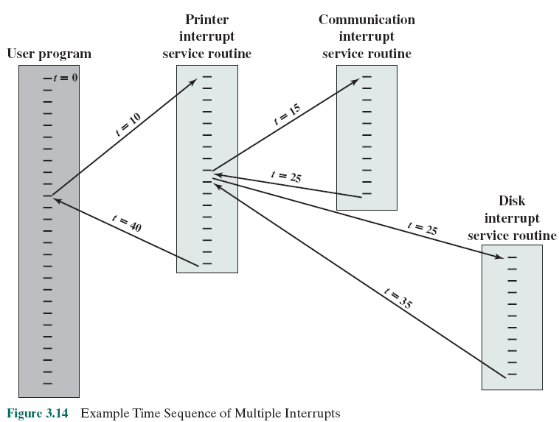
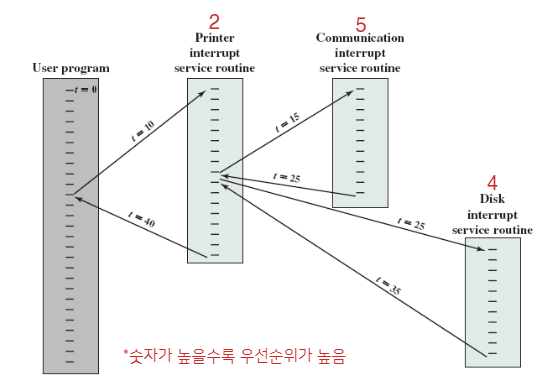
'인터럽트란?' 포스트 개정

Changed region(s): [[0.0, 0.031, 0.9945, 1.0], [0.2176, 0.3721, 0.2486, 0.4031]]

diff --git a/content/blog/os/what-is-interrupt.md b/content/blog/os/what-is-interrupt.md
@@ -52,11 +52,11 @@ draft: false
 
 ## 구현
 
-기본적인 인터럽트 메커니즘은 다음과 같습니다. 우선, CPU에는 매번 명령을 실행하고 난 후 인터럽트를 감지하는 **인터럽트 요청 라인(interrupt-request line)**이라는 전선(wire)이 존재합니다. 만약 인터럽트 요청 라인 통해 장치 컨트롤러가 발생시킨 신호를 감지하게 되면 해당 인터럽트의 **인터럽트 번호(interrupt number)**를 읽은 뒤, 인터럽트 벡터에서 해당 명령에 대응되는 ISR로 이동한 후 ISR을 실행합니다.
+기본적인 인터럽트 메커니즘은 다음과 같습니다. 우선 CPU에는 **인터럽트 요청 라인(interrupt-request line)**이라는 전선(wire)이 존재하는데, CPU는 매번 하나의 명령을 실행한 후 인터럽트 요청 라인을 확인하여 인터럽트가 들어왔는지를 확인합니다. 만약 인터럽트 요청 라인에 인터럽트 신호가 들어온 것을 확인하면 해당 인터럽트의 **인터럽트 번호(interrupt number)**를 읽은 뒤, 인터럽트 벡터에서 해당 명령에 대응되는 ISR로 이동한 후 ISR을 실행합니다.
 
 이때 인터럽트 핸들러(즉, ISR)는 인터럽트 처리 도중 변경될 수 있는 모든 상태를 저장한 뒤 인터럽트 발생 원인을 살펴본 후 그에 맞는 적절한 동작을 수행하고 `return_from_interrupt`와 같은 명령을 실행시켜 인터럽트가 발생하기 전의 원래 상태로 되돌아갑니다.
 
-즉, 장치 컨트롤러가 인터럽트를 발생(raise) 시키고, CPU가 감지(catch)해서 인터럽트를 적절한 인터럽트 핸들러에게 할당(dispatch)하면 해당 핸들러가 인터럽트를 처리합니다. 아래 그림에 인터럽트 기반 I/O 사이클에 관한 내용이 묘사되어 있습니다:
+즉, 장치 컨트롤러(혹은 프로세스)가 인터럽트를 발생(raise) 시키고, CPU가 감지(catch)해서 인터럽트를 적절한 인터럽트 핸들러에게 할당(dispatch)하면 해당 핸들러가 인터럽트를 처리합니다. 아래 그림에 인터럽트 기반 I/O 사이클에 관한 내용이 묘사되어 있습니다:
 
 <figure>
   <img src="https://cdn.jsdelivr.net/gh/jaehyeon48/jaehyeon48.github.io@master/assets/images/os/what-is-interrupt/fig6.png" alt="인터럽트-driven I/O 사이클" />
@@ -69,13 +69,16 @@ draft: false
 2. 장치에 관한 적절한 인터럽트 핸들러를 할당 하는데 효율적인 방법이 필요합니다.
 3. 운영 체제가 우선순위를 고려하여 인터럽트를 처리할 수 있게끔 다중 레벨 인터럽트가 필요합니다.
 
-현대 컴퓨터 하드웨어에서, 이러한 세 가지 특성들은 CPU와 **인터럽트 제어 하드웨어(interrupt-controller hardware)**를 통해 처리할 수 있습니다. 대부분의 CPU는 두 개의 인터럽트 요청 라인을 가지고 있는데, 하나는 회복할 수 없는(unrecoverable) 메모리 에러와 같은 이벤트를 처리하는 **non-maskable 인터럽트**를 위한 것이고, 다른 하나는 도중에 인터럽트 되어서는 안 되는 중요한 명령 처리를 위해 인터럽트 처리를 잠시 중단할 수 있는 **maskable 인터럽트**를 위한 것입니다. maskable 인터럽트는 장치 컨트롤러가 서비스를 요청할 때 사용됩니다.
+현대 컴퓨터 하드웨어에서, 이러한 세 가지 특성들은 CPU와 **인터럽트 제어 하드웨어(interrupt-controller hardware)**를 통해 처리할 수 있습니다. 대부분의 CPU는 두 개의 인터럽트 요청 라인을 가지고 있는데, 각각 다음과 같은 인터럽트를 위한 라인입니다:
+
+- **Non-Maskable Interrupt**: 반드시 지금 처리해야하는 (무시할 수 없는) 인터럽트로, 회복할 수 없는(unrecoverable) 메모리 에러와 같은 이벤트를 처리할 때 사용됩니다.
+- **Maskable Interrupt**: 도중에 인터럽트 되어서는 안 되는 중요한 명령 처리를 위해 인터럽트 처리를 잠시 중단하거나 무시할 수 있는 인터럽트로, 주로 장치 컨트롤러가 서비스를 요청할 때 사용됩니다.
 
 앞서 살펴본 인터럽트 벡터의 존재 이유를 복기해봅시다. 하나의 일반적인 인터럽트 핸들러(generic handler)를 통해 처리한다면 인터럽트가 발생했을 때 어떤 인터럽트 처리가 필요한지 판단하기 위해 가능한 모든 인터럽트 소스를 찾아야 할 것입니다. 이는 비효율적이므로, 인터럽트 벡터와 같이 ISR들의 주소를 저장하는 테이블을 통해 인터럽트를 처리합니다.
 
 하지만 실제로 컴퓨터들은 인터럽트 벡터가 보유한 주소보다 더 많은 장치를(즉, 인터럽트 핸들러를) 가지고 있습니다. 즉, 인터럽트 벡터에 모든 장치들의 ISR 주소를 저장할 수 없다는 뜻입니다. 이 문제를 해결할 수 있는 일반적인 방법은 각 인터럽트 벡터의 요소가 인터럽트 핸들러들이 저장된 리스트의 헤드를 가리키는 **인터럽트 체이닝(interrupt chaining)** 방식을 사용하는 것입니다. (즉, 해시 테이블 [separate chaining](https://www.geeksforgeeks.org/hashing-set-2-separate-chaining/)의 방법과 유사하다고 볼 수 있습니다).
 
-아래 그림은 인텔 프로세서에 대한 인터럽트 벡터를 나타낸 것이다. 벡터 번호 0부터 31까지는 non-maskable 인터럽트, 32 부터 255까지는 maskable 인터럽트 입니다:
+아래 그림은 인텔 프로세서에 대한 인터럽트 벡터를 나타낸 것입니다. 벡터 번호 0부터 31까지는 non-maskable 인터럽트, 32 부터 255까지는 maskable 인터럽트 입니다:
 
 <figure>
   <img src="https://cdn.jsdelivr.net/gh/jaehyeon48/jaehyeon48.github.io@master/assets/images/os/what-is-interrupt/fig7.png" alt="인텔 CPU 인터럽트 벡터" />
@@ -118,13 +121,13 @@ draft: false
 
 ## 여러개의 인터럽트
 
-여태껏 하나의 인터럽트만 발생하는 경우를 살펴보았는데, 만약 여러 개의 인터럽트가 발생하면 어떻게 될까요? 예를 들어, 네트워크를 통해 데이터를 받아서 결과를 출력하는 프로그램이 있다고 해봅시다. 프린터는 결과를 출력할 때마다 인터럽트를 발생시킬 것입니다. 또한, 네트워크 컨트롤러는 데이터가 도착할 때마다 인터럽트를 발생시킬 것인데, 이때 데이터는 하나의 문자일 수도 있고, 블록 단위일 수도 있을 테지요.
+여태껏 하나의 인터럽트만 발생하는 경우를 살펴보았는데, 만약 여러 개의 인터럽트가 발생하면 어떻게 될까요? 예를 들어, 네트워크를 통해 데이터를 받아서 결과를 프린터에 출력하는 프로그램이 있다고 해봅시다. 프린터는 결과를 출력할 때마다 인터럽트를 발생시킬 것입니다. 또한, 네트워크 컨트롤러는 데이터가 도착할 때마다 인터럽트를 발생시킬 것인데, 이때 데이터는 하나의 문자일 수도 있고, 블록 단위일 수도 있을 테지요.
 
 이 상황에서, 프린터 인터럽트가 처리되는 도중에 네트워크 인터럽트가 발생한다면 어떻게 될까요? 이 경우 여러 개의 인터럽트를 처리하기 위해 두 가지 방법이 사용될 수 있는데, 우선 첫 번째는 어떤 *한 인터럽트가 처리되는 동안은 다른 인터럽트의 발생을 중지*시키는 것입니다. 즉, 프로세서가 인터럽트 신호를 (일단) 무시한다는 뜻입니다. 어떤 한 인터럽트가 처리되는 동안 발생한 다른 인터럽트는 일반적으로 대기(pending) 상태가 되어 이후에 프로세서가 인터럽트 발생을 다시 허용했을 때 처리됩니다.
 
-이 방법은 인터럽트가 발생한 순서대로 처리된다는 점에선 좋은 방법이지만, 상대적 우선순위 혹은 빨리 처리되어야 하는 시급한 요구를 고려하지 못한다는 단점이 있습니다. 예를 들어, 네트워크로부터 어떤 데이터가 도착했을 때 발생한 인터럽트는 (앞으로 도착할) 또 다른 데이터들을 위해 즉시 처리되어야 할 필요가 있습니다. 만약 두 번째 데이터가 도착하기 전에 첫 번째 데이터가 처리되지 못한다면, 데이터가 소실될 가능성이 있지요.
+이 방법은 인터럽트가 발생한 순서대로 처리된다는 점에선 좋은 방법이지만, (우선순위가 높은) 빨리 처리되어야 하는 요구를 고려하지 못한다는 단점이 있습니다. 예를 들어, 네트워크로부터 어떤 데이터가 도착했을 때 발생한 인터럽트는 (앞으로 도착할) 또 다른 데이터들을 위해 즉시 처리되어야 할 필요가 있습니다. 만약 두 번째 데이터가 도착하기 전에 첫 번째 데이터가 처리되지 못한다면, 데이터가 소실될 가능성이 있지요.
 
-두 번째 방법은 *인터럽트 간에 우선순위를 매겨 처리하는 방법*입니다. 예를 들어 프린터, 디스크, 네트워크로 구성된 시스템을 생각해봅시다. 아래 그림과 같이 각 장치들의 우선순위는 각각 2, 4, 5입니다:
+두 번째 방법은 *인터럽트 간에 우선순위를 매겨 처리하는 방법*입니다. 예를 들어 프린터, 디스크, 네트워크로 구성된 시스템을 생각해봅시다. 이때 각 장치들의 우선순위는 각각 2, 4, 5입니다:
 
 <figure>
   <img src="https://cdn.jsdelivr.net/gh/jaehyeon48/jaehyeon48.github.io@master/assets/images/os/what-is-interrupt/fig8.png" alt="여러 개의 인터럽트가 발생한 상황에 대한 시간 도표" />
